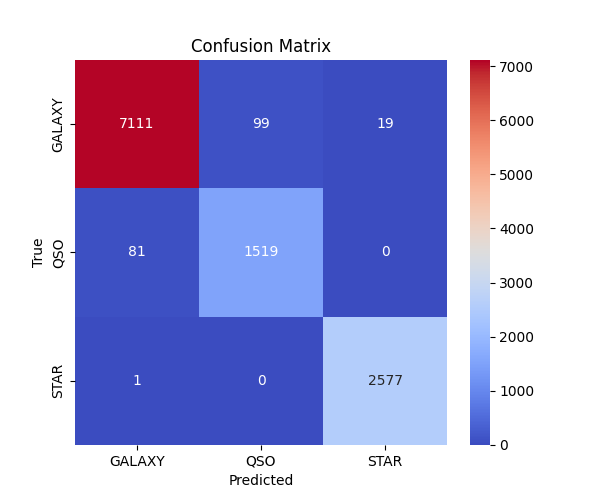
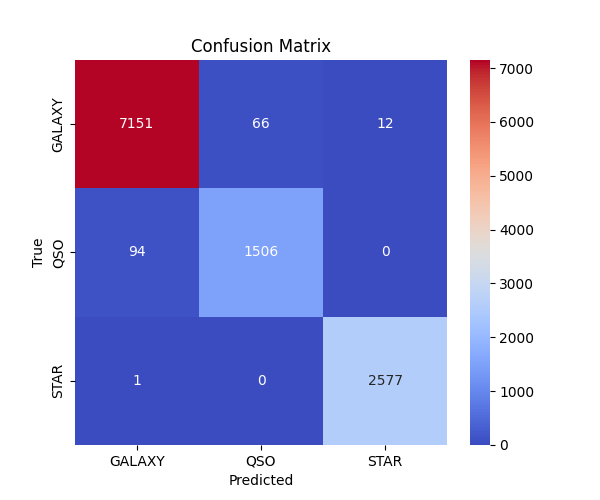
refactor(reports): standardize file naming, fix typos, and align path configs

diff --git a/tests/unit/configs/test_paths.py b/tests/unit/configs/test_paths.py
@@ -53,8 +53,8 @@ class TestDataPathConfig:
             "raw_data_dir",
             "interim_dir",
             "production_dir",
-            "split_daily_batch_path",
-            "split_archived_batch_path",
+            "split_daily_batches_path",
+            "split_archived_batches_path",
             "processed_dir",
             "optuna_config",
             "data_config",
@@ -129,14 +129,12 @@ class TestDataPathConfig:
             "raw_data_metadata",
             "split_training_path",
             "split_interim_metadata_path",
-            "holdout_dataset_batch_predicted",
-            "holdout_dataset_batch_metrics",
             "split_production_path",
             "split_production_metadata_path",
-            "split_daily_batch_metadata_path",
-            "split_archived_batch_metadata_path",
-            "holdout_dataset_full_predicted",
-            "holdout_dataset_full_metrics",
+            "split_daily_batches_metadata_path",
+            "split_archived_batches_metadata_path",
+            "holdout_dataset_predicted",
+            "holdout_dataset_metrics",
             "processed_data",
             "processed_data_metadata",
             "cleaner_pipeline",
